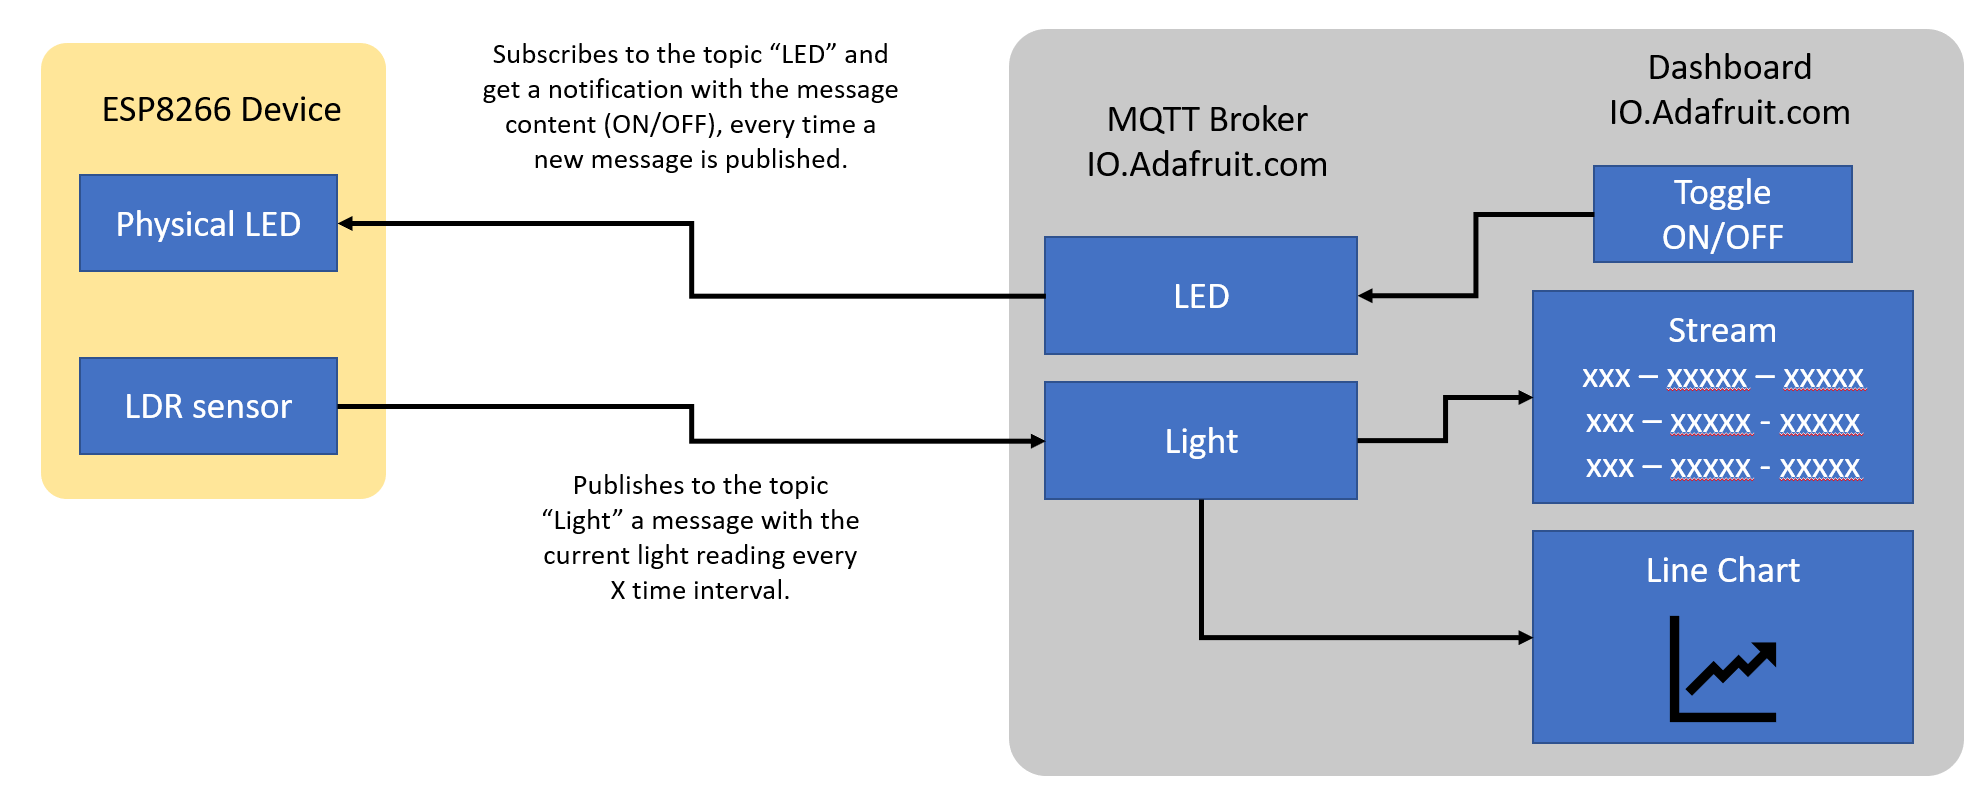
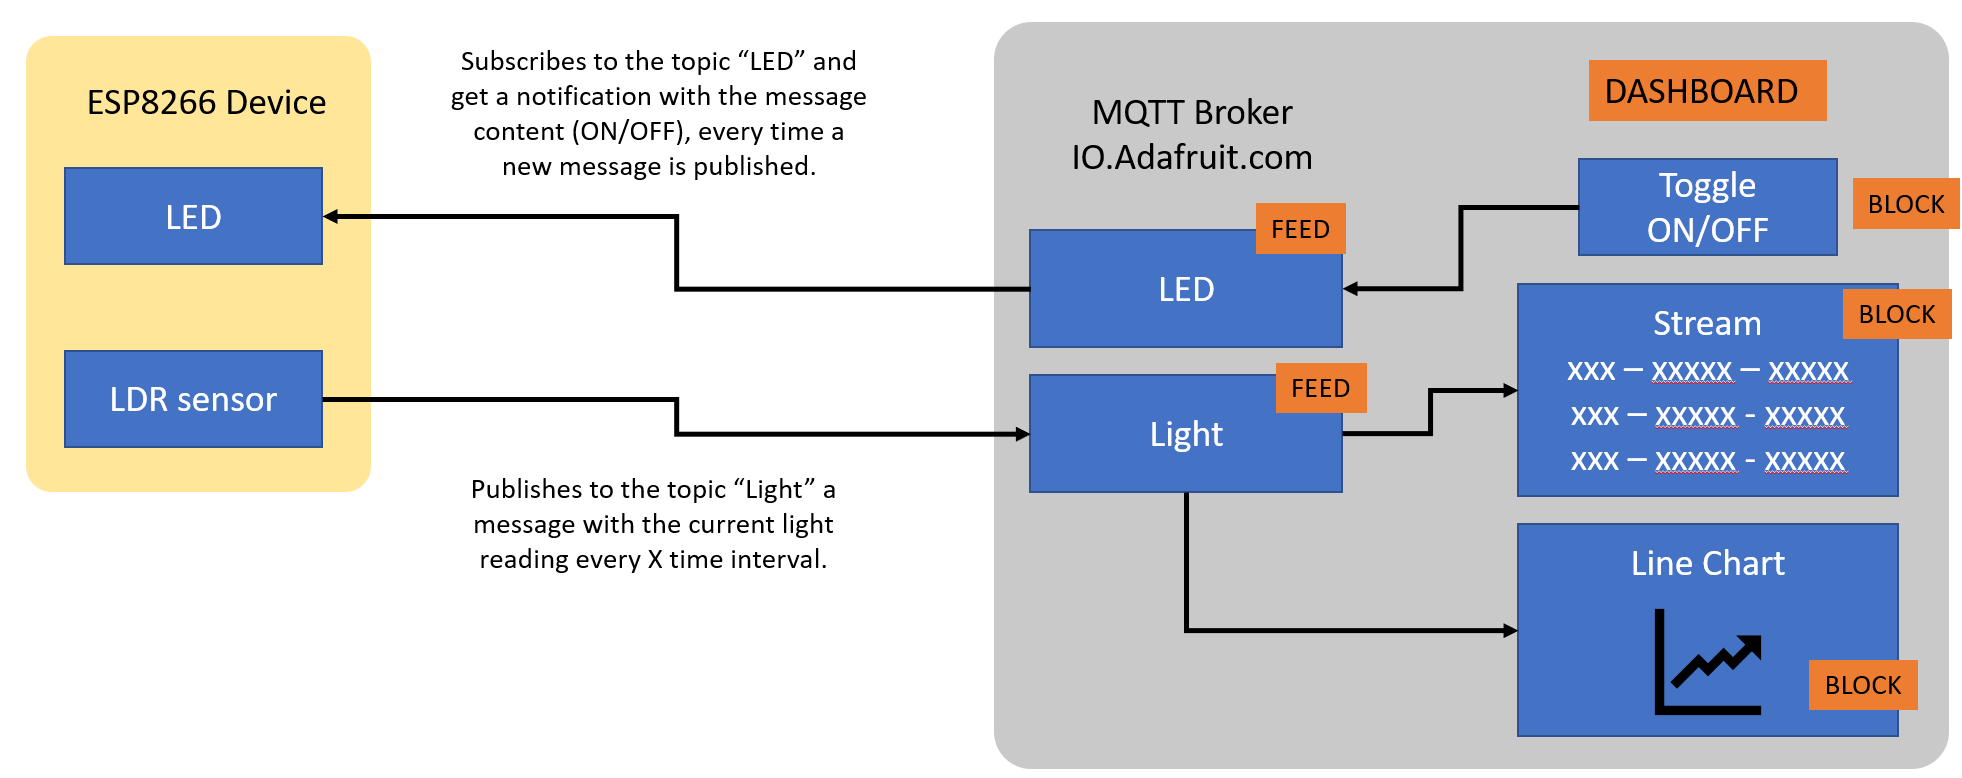
add MQTT basic page

diff --git a/Embedded Development IoT/Basic MQTT/readme.md b/Embedded Development IoT/Basic MQTT/readme.md
@@ -1,0 +1,68 @@
+## Basic MQTT with Adafruit IO
+
+Adafruit IO implements a MQTT broker which can be used for tests and learning purposes. While nothing prevents us from using it for more advanced scenarios and professional use, this platform lacks more advanced resources like scalability, longer term storage, device identity, provisioning and etc. 
+
+### Step 1 - Create your account
+
+Visit https://io.adafruit.com and create your account. It is free. there is a paid version as well and, as per Oct 2022 the paid version costs $10 per month for double the datapoints and days of storage.
+
+### Step 2 - Create a topic
+
+We need topics (Adafruit call them feeds) so we can publish data to. You can create up to 10 topics/feeds with a free subscription.
+
+1. Navigate to Feeds
+2. Click on the `New Feed` button
+3. Add a name `Test`
+4. There is no need for description, but feel free to add one
+5. Your new topic should show in the topic list
+
+### Step 3 - Create a Dashboard
+
+Dashboards organize MQTT topics and its information in a visual way allowing you to interact with the topics/feeds by either reading or writing values to them.
+
+1. Navigate to Dashboards
+2. Click on the `New Dashboard` button
+3. Add a name `Test`
+4. There is no need for description, but feel free to add one
+5. Your new topic should show in the topic list
+6. Click on the feed name and you should see the empty Dashboard you just created
+
+### Step 4 - Connect it all
+
+In this step you'll create blocks in the dashboard to interact with your `test` topic/feed. The diagram below shows this interaction:
+
+![Toolchain](../Images/mqtt.png)
+
+#### Create a button
+
+1. Open Dashboard Settings (the cogwheel icon at the top right)
+1. Create a new Block
+1. Select Momentary Button
+1. Select the topic “Test” and click “Next Step”
+1. Add “Test” to the Button Text
+1. Leave “Press Value” as 1
+1. Leave “Release Value” as 0
+1. Click Create block
+
+Now, every time you hit the button `test` in the dashboard a message will be published to the topic name Test.
+
+#### Create a Stream to test your Topic
+
+1. Open Dashboard Settings (the cogwheel icon at the top right)
+1. Create a new Block
+1. Select Stream
+1. Select the topic “Test” and click “Next Step”
+1. Add “Test Feed” to the Block Title
+1. Select NO for “Show group name”
+1. Select NO for “Show feed name”
+1. Click Create block
+
+Now, you’ll see the messages you previously published to your topic. Also, every time you hit the button a new message will show on the feed.
+
+#### More to explore
+
+Feel free to explore all 19 types of blocks available, I'm sure you'll find something interesting or something you can use in a future project!
+
+Almost all of them can be used to either read from a topic/feed or to write to a topic/feed.
+
+![Toolchain](../Images/blocks.png)
